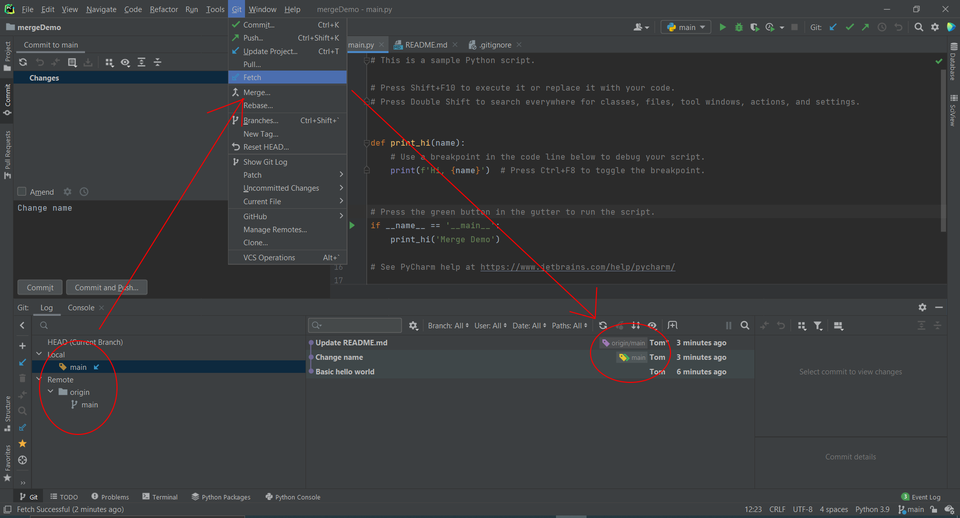
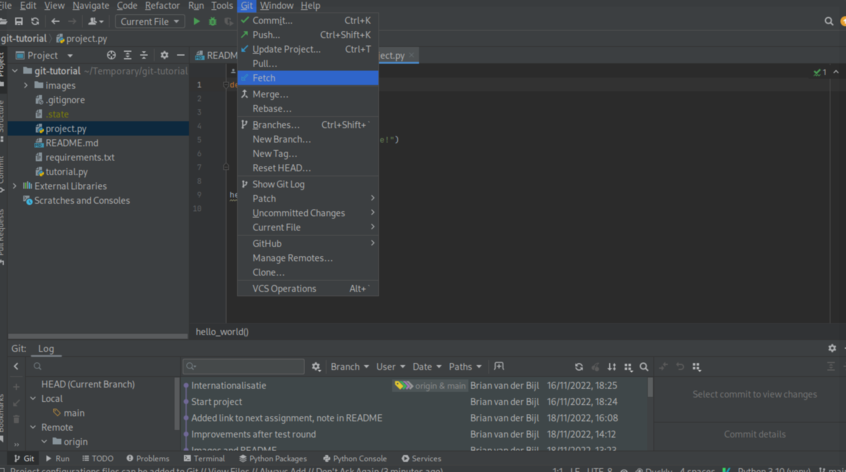
New screenshots based on feedback Jeroen

diff --git a/tutorial.py b/tutorial.py
@@ -45,13 +45,6 @@ class Code(str):
         return [[sg.Text(self, font=("Courier 12"))],
                 [Sidenote("De code is ook in de output te vinden, om makkelijker te copy-pasten.").show()]]
 
-def reset(): # TODO
-    # fetch
-    # delete branches
-    # hard reset main to origin/main
-    put_state(0)
-    exit(0)
-
 
 def get_state():
     try:
@@ -154,7 +147,14 @@ def check_file(filename, should_be):
 def rewind():
     travel("step_back")
 
-exercises = { 0: { "text": [Text("Welkom! In deze tutorial gaan we leren hoe we Git kunnen gebruiken om met meerdere mensen samen te werken.")],
+exercises = { 0: { "text": [
+                  Text("Welkom! In deze tutorial gaan we leren hoe we Git kunnen gebruiken om met meerdere mensen samen te werken."),
+                  Text("Voordat we beginnen, een paar tips:"),
+                  Text("- Je moet na iedere stap het script `tutorial.py` opnieuw uitvoeren."),
+                  Text("  - Als alles goed is gegaan krijg je een nieuwe instructie, zo niet blijft de oude terugkomen."),
+                  Text("- Lees goed wat er staat, en vraag om hulp als je er niet uitkomt."),
+                  Text("- Het doel is uiteindelijk om hier comfortabel mee te worden, dus experimenteren is ok. In het ergste geval resetten we gewoon.")
+                  ],
                    "done": check_heads(main="Internationalisatie", remote="Internationalisatie"),
                    "post": rewind
                  },
@@ -198,10 +198,11 @@ exercises = { 0: { "text": [Text("Welkom! In deze tutorial gaan we leren hoe we 
                  },
              5: { "text": [
                  Text("Tof! We hebben onze nieuwe code veiliggesteld, nu nog naar GitHub doorzetten. Maar dan... Als we nu proberen te Pushen gaat het mis :-/"),
-                 Image("5_BasicMergeError.png"),
+                 Image("5_BasicMergeError.png", "5_Split.png"),
                  Text("Als we een Fetch doen zien we dat we twee parallelle lijnen hebben gemaakt. Oeps. Geeft niet, kan gebeuren. Dus, hoe verder?"),
                  Text("Helaas, de fast forward doet het niet. Dit keer kunnen we niet gewoon doorspoelen, maar zullen we de veranderingen moeten samenvoegen."),
                  Text("Dit kan met het Merge menu item, of het commando `git merge origin/main`."),
+                 Image("5_Merge.png", "5_MergeWhat.png"),
                  Sidenote("Bij het mergen wordt een nieuwe commit gemaakt. Je krijgt de mogelijkheid om hier een message voor te schrijven, maar in dit geval moeten we gewoon de standaard-tekst aanhouden.")
                  ],
                   "done": check_heads(main="Merge remote-tracking branch"),
@@ -210,6 +211,7 @@ exercises = { 0: { "text": [Text("Welkom! In deze tutorial gaan we leren hoe we 
                  Text("In dit geval kan git de twee verschillende commits veilig samenvoegen, omdat we in losse bestanden hebben gewerkt."),
                  Text("We gaan nog een keertje back in time, en dit keer maken er echt een fubar van..."),
                  Image("6_conflict.png"),
+                 Text("Het resultaat van de vorige stap is niet helemaal verwijderd, maar staat nog in je timeline onder het label `nieuw`. Negeer deze aftakking voor nu even."),
                  ],
                   "done": check_heads(main="Internationalisatie", remote="Internationalisatie"),
                   "post": nieuw_branch
@@ -218,14 +220,18 @@ exercises = { 0: { "text": [Text("Welkom! In deze tutorial gaan we leren hoe we 
                  Heading("Manual Merging"),
                  Text("We maken wederom wat aanpassingen, maar nu dwars door het bestand `project.py` heen. Open het bestand, en pas het als volgt aan:"),
                  Code(aangepast),
-                 Text("Wederom doen we een add en commit voordat we verder kunnen.")
+                 Text("Wederom doen we een add en commit voordat we verder kunnen. ")
                  ],
                   "done": check_file("project.py", aangepast),
                  },
              8: { "text": [
+                 Text("Na de commit heb je de nieuwe commit (`main`) en Internationalisatie (`origin/main`), de `nieuw` branch is voor later."),
+                 Text("Na de fetch staat `origin/main` op Test Code, de andere twee commits staan nog steeds in time-out."),
+                 Image("8_Status.png"),
                  Text("Cool. Laten we kijken wat er nu gebeurt. Je kan proberen te pushen, maar ook nu weer krijgen we de opdracht om eerst de remote changes te mergen. Sure."),
-                 Text("Fetch, geen verrassingen, maar dan... Merge, kan het niet meer voor ons oplossen."),
-                 Text("We moeten een handmatige merge doen, waarbij we (in PyCharm) de beide versies aan twee kanten hebben met een compromis die we in het midden moeten samenstellen."),
+                 Text("Fetch, geen verrassingen, maar dan... De automatische merge kan het niet meer voor ons oplossen. We moeten een handmatige merge doen."),
+                 Text("Kies in het linkerscherm hieronder voor Merge, niet voor voor Accept Ours of Theirs."),
+                 Text("We krijgen nu in PyCharm de beide versies aan twee kanten met een compromis die we in het midden moeten samenstellen."),
                  Image("8_Conflict1.png", "8_Conflict2.png"),
                  Text("Als dat gelukt is kunnen we de gemergde file opnieuwe met `git add` toevoegen, een merge commit maken (gebruik wederom de standaard naam voor nu), en dan pas mogen we pushen.")
                  ],
